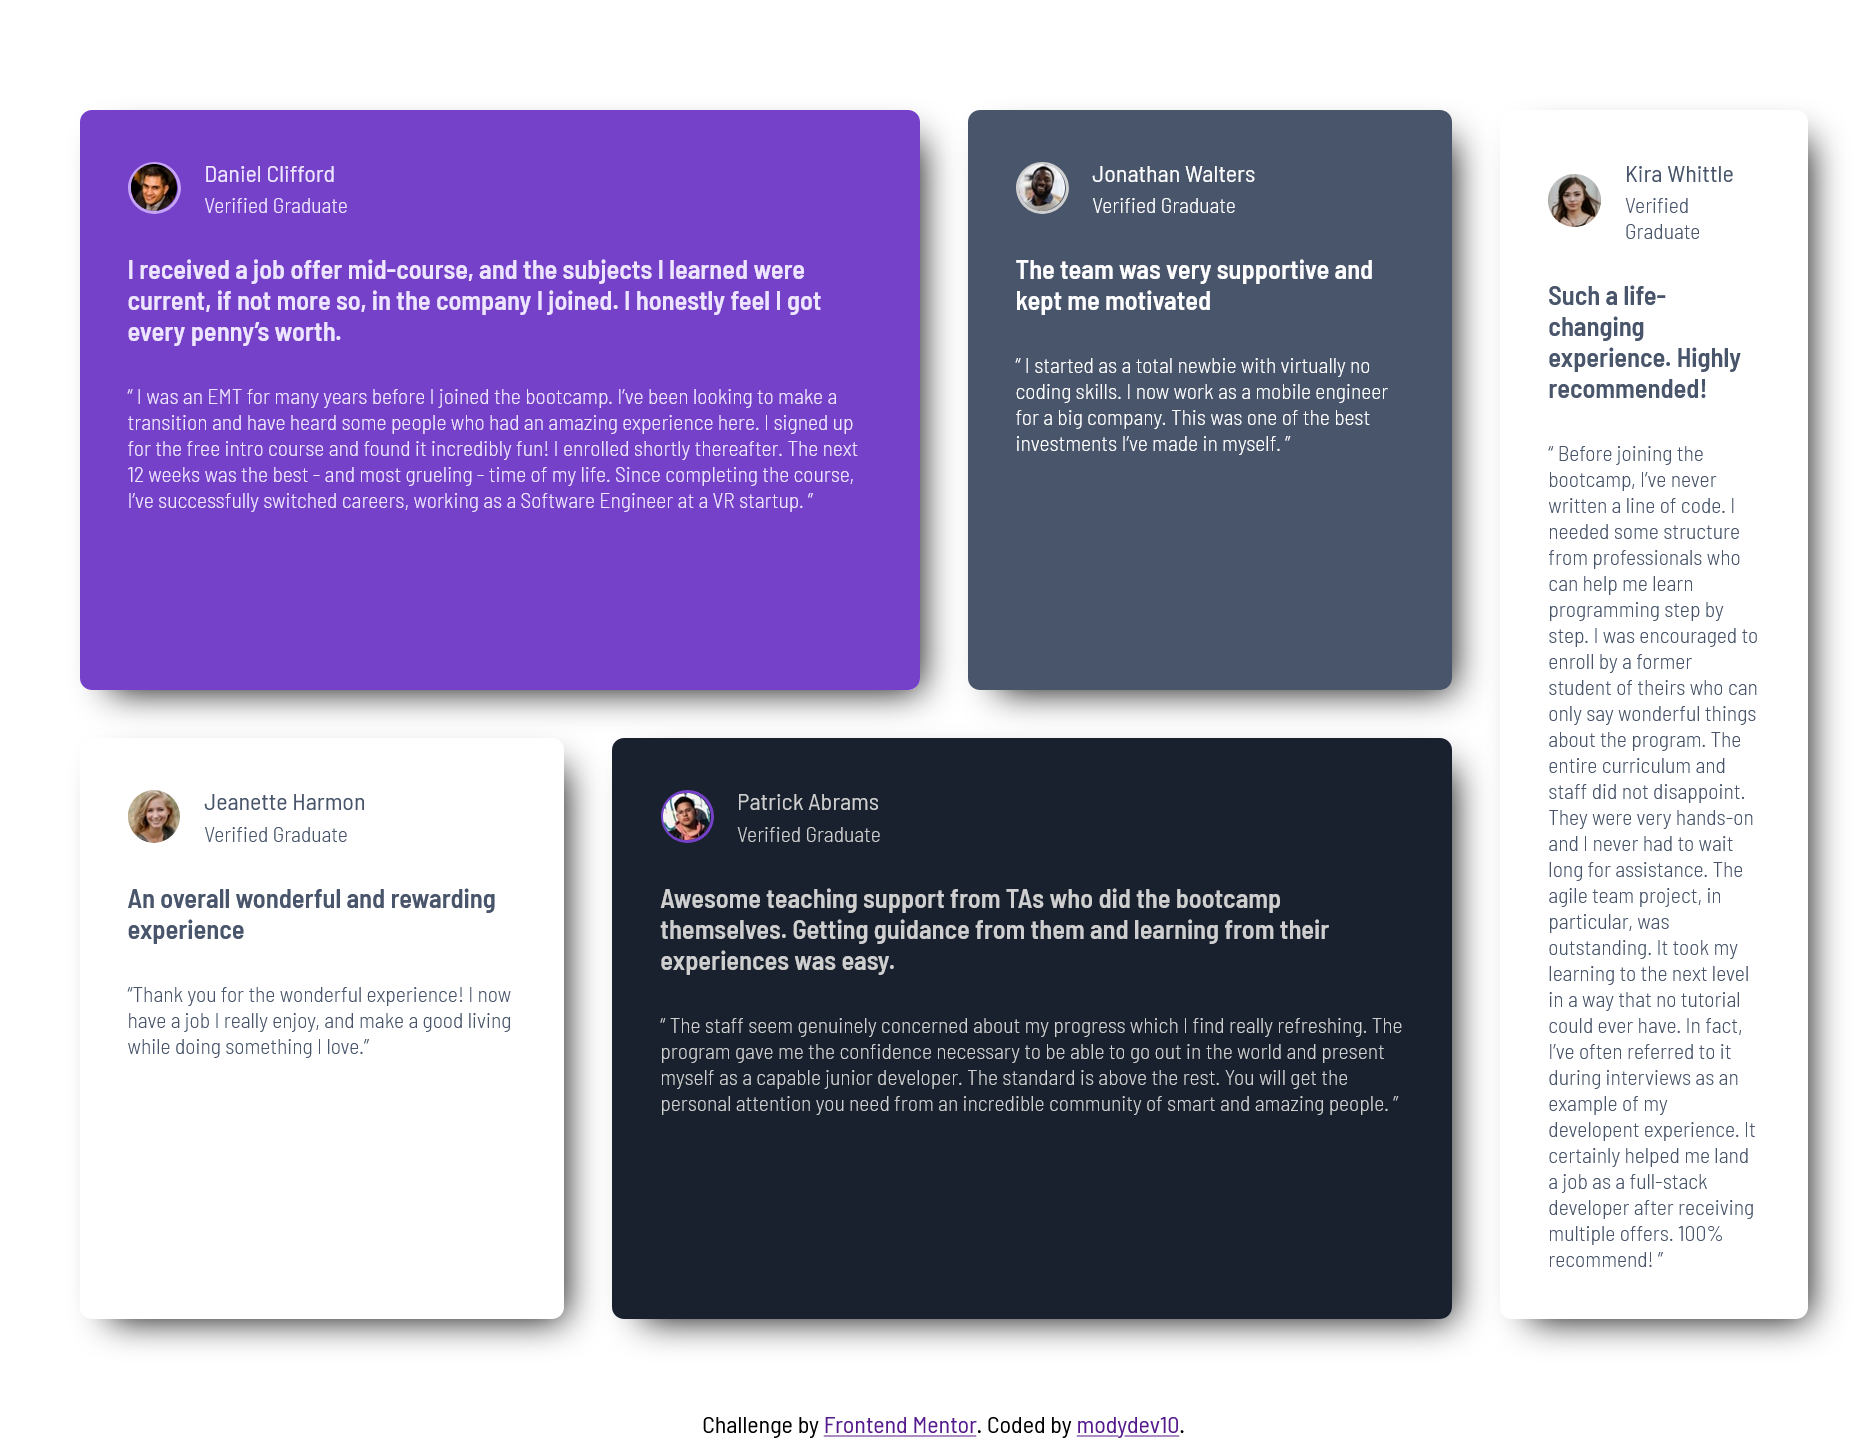
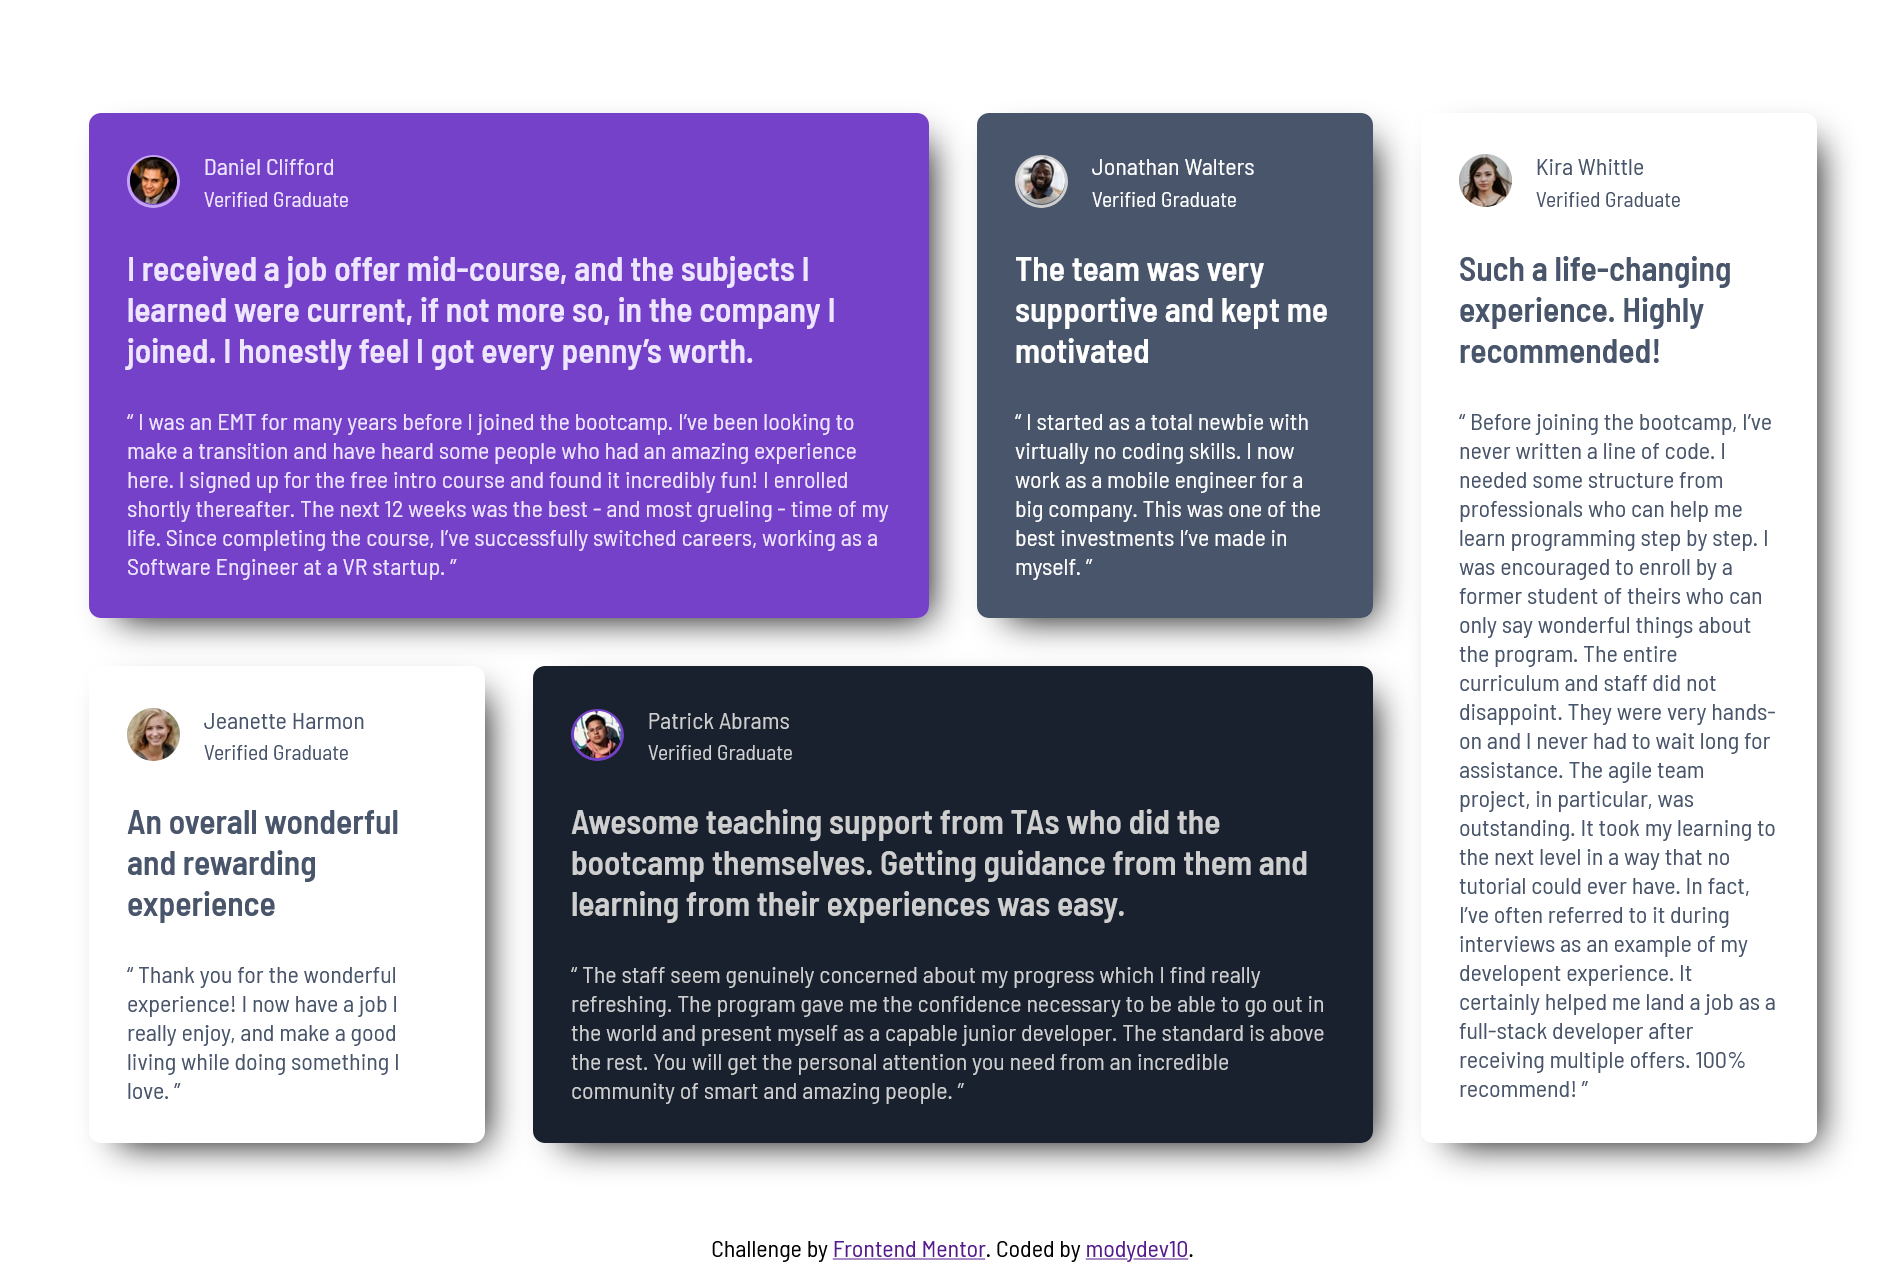
edited the style code

Changed region(s): [[0.0309, 0.0612, 0.9899, 0.9482], [0.0619, 0.7647, 0.2165, 0.8565], [0.3712, 0.9788, 0.6496, 1.0]]

diff --git a/style.css b/style.css
@@ -9,10 +9,6 @@
     font-family: barlow-semi-condensed-regular;
     src: url(fonts/Barlow_Semi_Condensed/BarlowSemiCondensed-Regular.ttf)
 }
-@font-face {
-    font-family: barlow-semi-condensed-light;
-    src: url(fonts/Barlow_Semi_Condensed/BarlowSemiCondensed-Light.ttf)
-}
 
 @font-face {
     font-family: barlow-semi-condensed-semi-bold;
@@ -42,13 +38,11 @@ body {
     place-items: center;
     padding: 5rem 0;
     background: var(--White);
-    /* min-height: 100vh */
 }
 
 
 main {
-    /* border: 2px solid blue; */
-    width: 80%;
+    width: 90%;
     display: flex;
     flex-direction: column;
     gap: 2rem;
@@ -56,11 +50,10 @@ main {
 
 
 .card {
-    /* border: 2px solid red; */
     border-radius: 0.5rem;
     display: flex;
     flex-direction: column;
-    padding: 2rem;
+    padding: 1.8rem;
     gap: 1.5rem;
     box-shadow: 10px 10px 25px -10px #000;
 }
@@ -68,14 +61,12 @@ main {
 
 
 div.user-info {
-    /* border: 2px solid #000;    */
     display: flex; 
     align-items: center;
     gap: 1rem;
 }
 
 div.text-container {
-    /* border: 2px solid #0ff; */
     display: flex;
     flex-direction: column;
     gap: 0.2rem;
@@ -93,18 +84,18 @@ span.username {
 
 span.verified-graduate-span {
     font-size: clamp(0.5rem, 4vw, 0.9rem);
-    font-family: barlow-semi-condensed-light;
+    font-family: barlow-semi-condensed-regular;
 }
 
 span.review-title {
     font-family: barlow-semi-condensed-semi-bold;
-    font-size: clamp(1.1rem, 4vw, 1.1rem);
+    font-size: clamp(1.4rem, 4vw, 1.1rem);
 }
 
 
 span.review-text {
-    font-family: barlow-semi-condensed-light;
-    font-size: clamp(0.7rem, 3vw, 0.9rem);
+    font-family: barlow-semi-condensed-regular;
+    font-size: clamp(0.5rem, 3vw, 1rem);
 }
 
 
@@ -150,38 +141,29 @@ div.attribution {
 
 @media(min-width: 800px) {
 
-
     main {
-        /* border: 2px solid red; */
-        width: 90%;
-        height: 100%;
         display: grid;
-        grid-template-rows: repeat(2, 1fr);
-        grid-template-columns: repeat(10, 1fr);
-        gap: 2rem;
+        grid-template-columns: repeat(4, 1fr);
     }
 
     .card.user-daniel {
-        grid-column: 1 / 6;
-        grid-row: 1 / 2;
+        grid-column: 1 / 3;
     }
 
     .card.user-jonathan {
-        grid-column: 6 / 9;
-        grid-row: 1 / 2;
-    }
-
-    .card.user-kira {
-        grid-column: 9 / 11;
-        grid-row: 1 / 3;
+        grid-column: 3 / 4
     }
 
     .card.user-jeanette {
-        grid-column: 1 / 4;
-        grid-row: 2 / 3;
+        grid-column: 1 / 2
     }
     .card.user-patrick {
-        grid-column: 4 / 9;
-        grid-row: 2 / 3;
+        grid-column: 2 / 4
     }
+
+    .card.user-kira {
+        grid-column: 4 / 5;
+        grid-row: 1 / 3;
+    }
+        
 }

diff --git a/index.html b/index.html
@@ -63,8 +63,8 @@
         An overall wonderful and rewarding experience
       </span>
       <span class="review-text">
-        “Thank you for the wonderful experience! I now have a job I really enjoy, and make a good living
-        while doing something I love.”
+        “ Thank you for the wonderful experience! I now have a job I really enjoy, and make a good living
+        while doing something I love. ”
       </span>
     </div>
     <div class="card user-patrick">
@@ -115,6 +115,7 @@
     Challenge by <a href="https://www.frontendmentor.io?ref=challenge" target="_blank">Frontend Mentor</a>.
     Coded by <a href="https://github.com/modydev10" target="_blank">modydev10</a>.
   </div>
+
 </body>
 
 </html>
